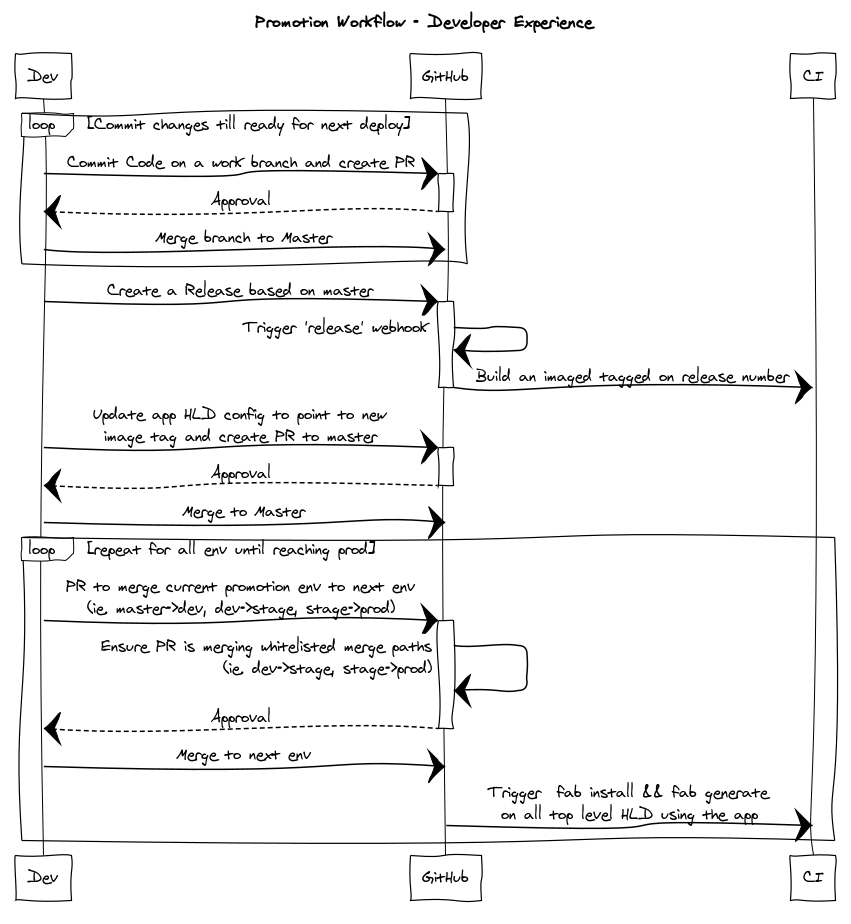
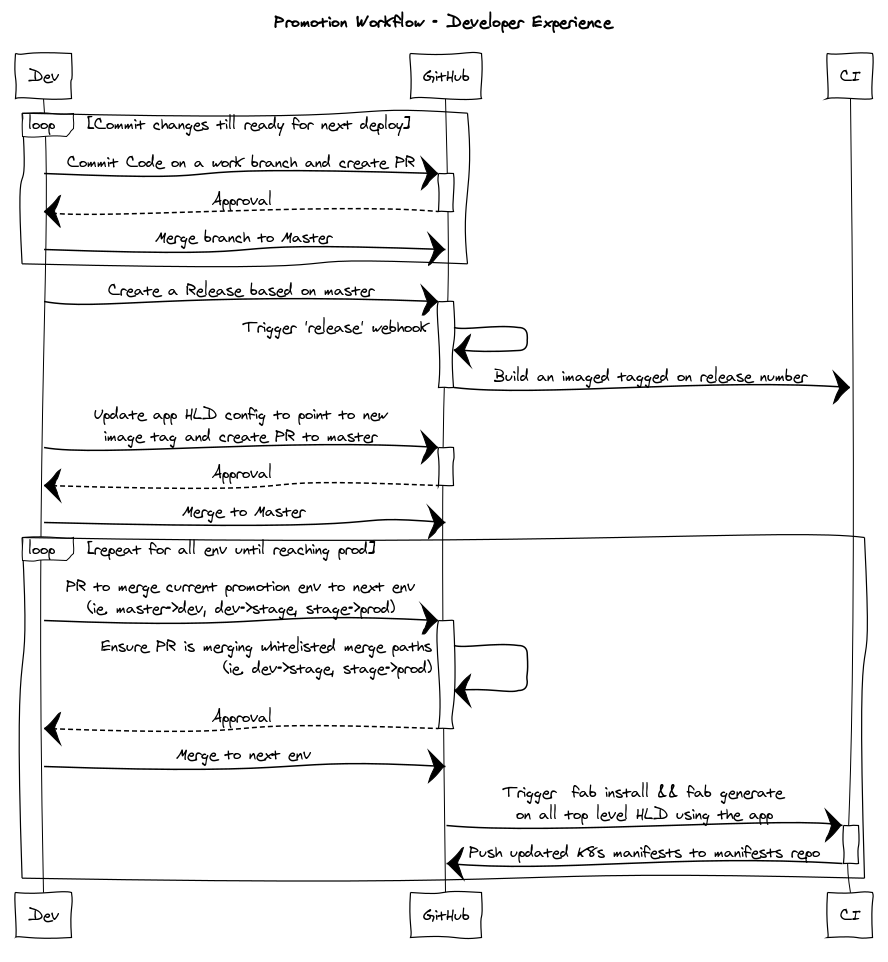
update rationale

Changed region(s): [[0.0, 0.0, 1.0, 0.9697], [0.886, 0.5455, 0.9166, 0.5758], [0.5805, 0.5455, 0.611, 0.5758]]

diff --git a/README.md b/README.md
@@ -1,6 +1,7 @@
 # GitOps Environment Promotion Workflow
 
-This is a living document outlining a potential solution to environment based promotion of cluster states.
+This is a living document outlining a potential solution/workflow for promoting new releases through environment gates
+in the context of GitOps.
 
 | Version | Date       | Description |
 | ------- | ---------- | ----------- |
@@ -48,13 +49,15 @@ would require high amounts of templating and potentially too much automation in 
 
 ### Rationale
 
-The proposed solution aims to solve the problem outlined while:
+The proposed workflow aims to solve the problem outlined while:
 
 - Minimizing the amount of state which the CI system has to keep track of.
-  - The proposed solution holds **no** state in the CI system. Using only GitHub events.
+  - The proposed workflow holds **no** state in the CI system. Using only GitHub events.
 - Materialization of HLD's (whether they be cluster or application level) should be idempotent; and safe to call n+1 times.
+  - The proposed workflow only requires a single `materialize` function in CI which will re-materialize the clusters top level HLD.
 - Reduce the overhead for DevOps teams; assistance from a DevOps teams should not be required by a dev team to deploy a new release of an application.
-  - The proposed solution, once setup in the application repositories, requires no DevOps assistance or monitoring.
+  - The proposed workflow, once setup in the application repositories, requires no DevOps assistance or monitoring.
+  - From the developer prospective, they only need to interact with the GitHub (no interaction with CI tooling).
 
 ### State of the System
 
@@ -63,7 +66,7 @@ The proposed solution aims to solve the problem outlined while:
 - A clusters Flux deployment points to a branch of the  clusters manifest repository.
 - Every application deployed to a cluster contains their own HLD and is hosted on their own Git repository.
 - Every application repository has at minimum 4 branches: `master`, `dev`, `stage`, `prod`
-- Every application repostiory contains a directory which contains their Fabrikate component definition.
+- Every application repository contains a directory which contains their Fabrikate component definition.
 
 ### The Workflow
 
